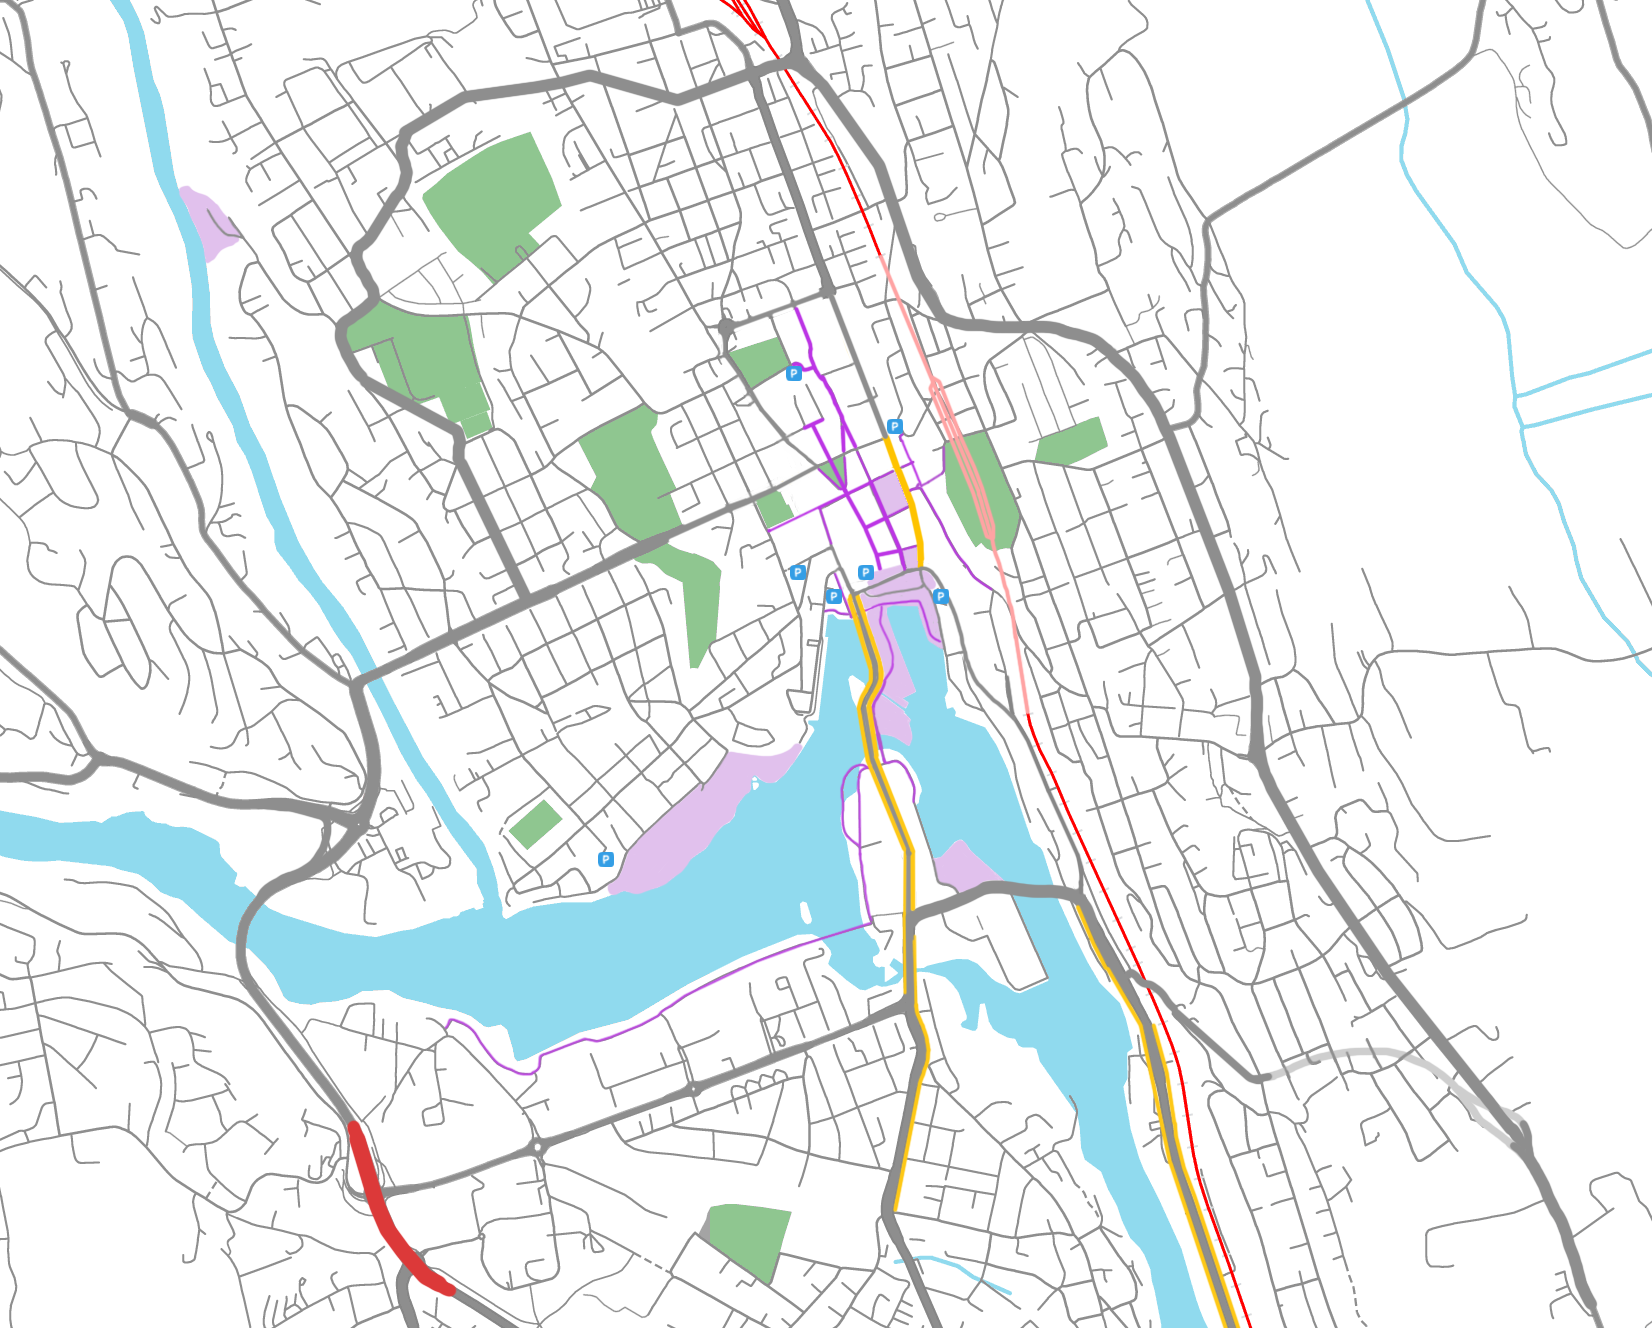
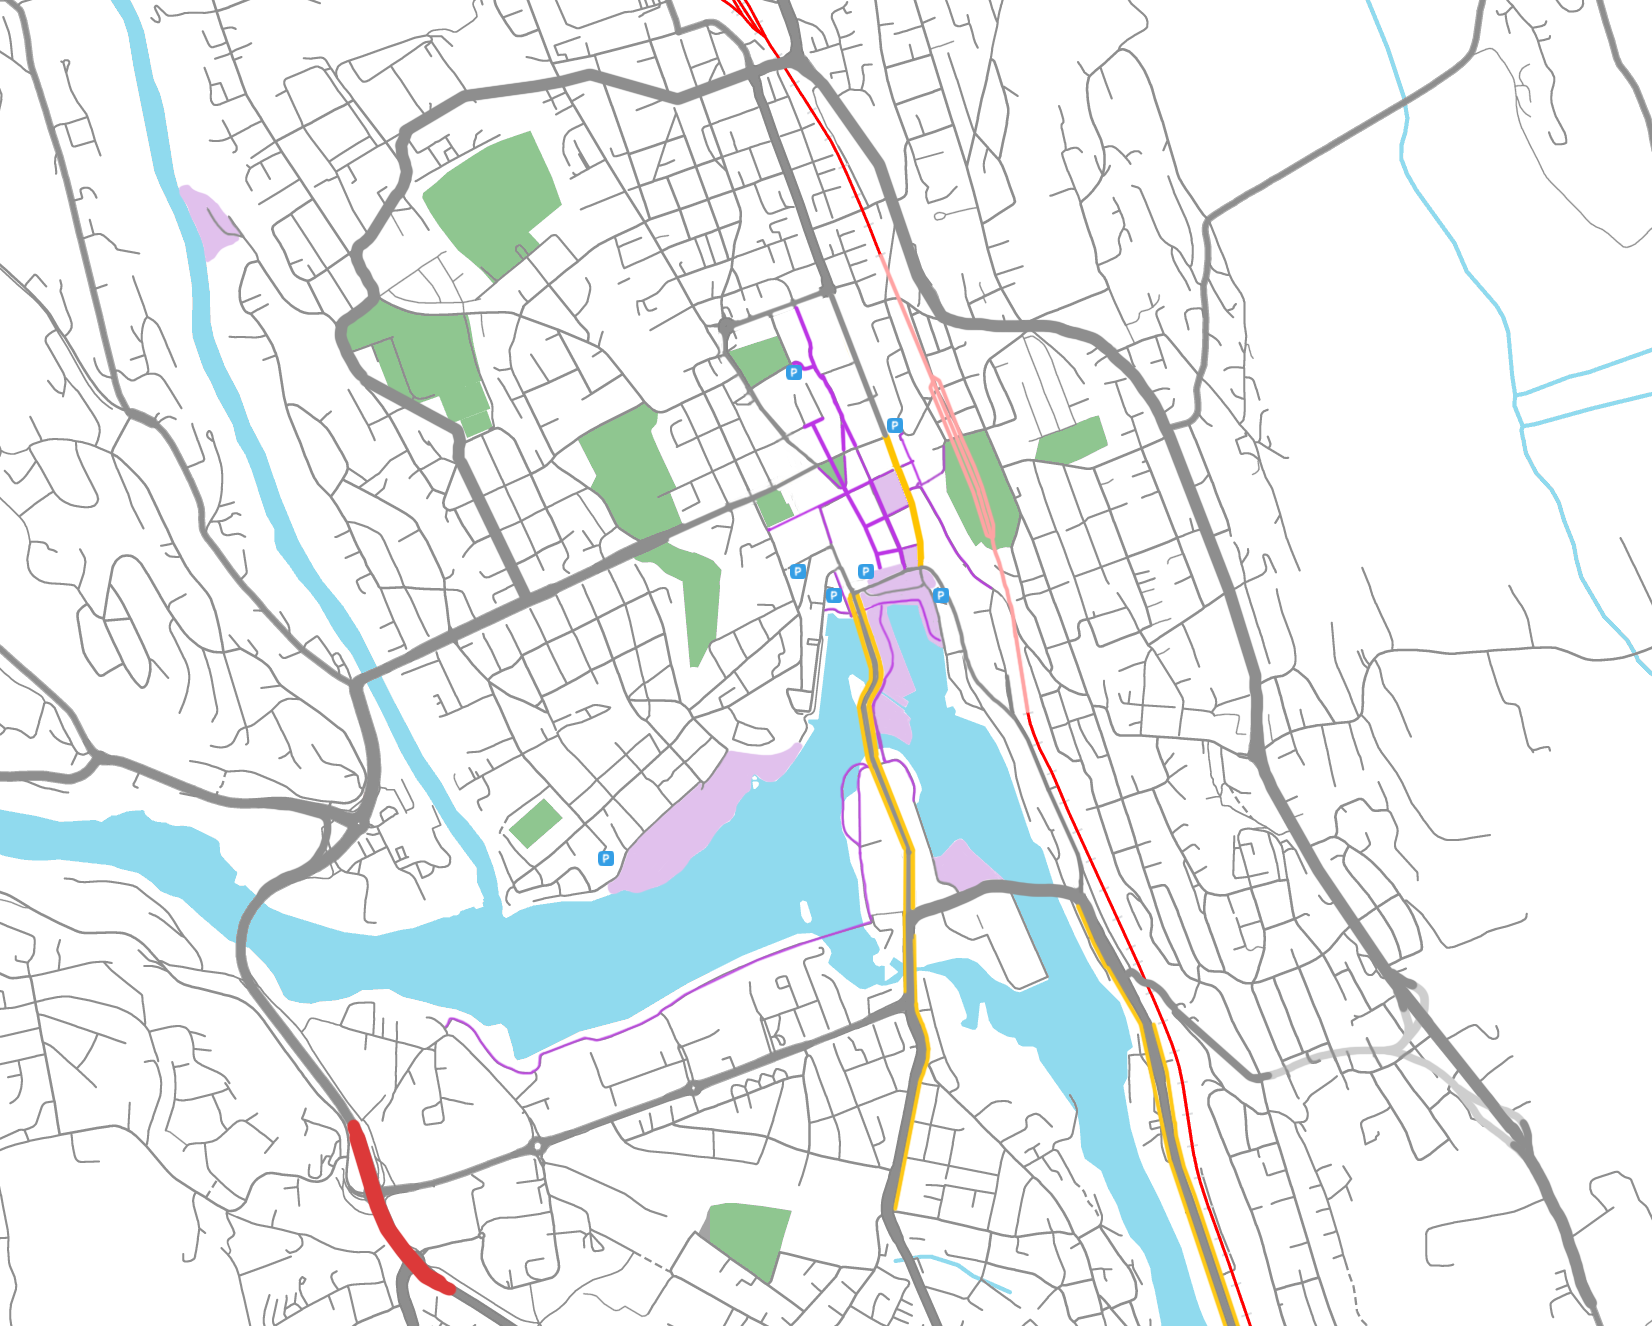
-

diff --git a/index.html b/index.html
@@ -26,9 +26,15 @@
     <main>
         <div class="container">
             <section class="hero" aria-labelledby="welcome-title">
-                <h2 id="welcome-title">Welcome</h2>
-                <p>This is a default index.html. Replace this content with your site. Edit the title, meta, styles and scripts as needed.</p>
-                <p><small>File location: /C:/Users/mrson/Documents/Skien-planen/index.html</small></p>
+                <h2 id="welcome-title">Kjære, stygge, bilsentrerte Skien</h2>
+                <p>Kjære, stygge, bilsentrerte Skien
+
+Hvis det er en ting vi i Skien er glad i, så er det bilen vår. Vi elsker å kunne sette oss i bilen, fyke av gårde, og være på Herkules på fem minutter. Hvorfor skal vi ta kollektiv når det tar tid å gå til busstoppet, vente på bussen som er for sen uansett, og så sitte i samme køen du uansett ville stått i med bil? <br><br>
+
+Likevel skulle vi alle ønske at vi hadde et finere sentrum, med mer gågater med butikker, et julemarked, flott arkitektur, og sprudlende uteliv. Det er som om vi ikke er villige til å ofre bilen for et finere uteområde med gangmuligheter. Og dette skjønner jeg godt. I 1886 brant mye av byen ned. Dette var en flott mulighet for å bygge opp igjen byen rundt mobile fartøy. Det skulle være lett å komme seg rundt med hest og kjerre, og senere også bilen, men når byen vokste, gjorde også behovet for utvidet veinett det. I tillegg gikk ekspansjon av byen på bekostning av arkitektur og byplanlegging. I dag har vi det som er en over gjennomsnittlig stygg by, med ekstremt mye potensiale. Og jeg klarer ikke å stå å se på, mens vi vimser rundt dårlige løsninger på problemene. <br><br>
+
+Derfor har jeg laget denne siden for å vise AKKURAT de endringene JEG ville gjort for byen vår, og har sortert tiltakene inn i <a class="inline-link" href="pages/infrastruktur.html">Infrastruktur</a>, <a class="inline-link" href="pages/kollektivtransport.html">Kollektivtransport</a>, <a class="inline-link" href="pages/moteplasser.html">Møteplasser</a> og <a class="inline-link" href="pages/arkitektur.html">Arkitektur</a>. Her er det mye spennende å ta tak i!</p>
+                <p><small>Dette er kun min mening, og representerer ikke noe demokratisk prosess.</small></p>
             </section>
             <section class="hero">
                 <h2>Interaktivt kart</h2>
@@ -83,7 +89,13 @@
                                 </span>
                                 <span class="label">Toglinje</span>
                             </li>
-                            <li><span class="swatch" style="background:#8e8e8e" aria-hidden="true"></span><span class="label">Vei</span></li>
+                            <li>
+                                <span class="swatch double">
+                                    <span class="part" style="background:#8e8e8e" aria-hidden="true"></span>
+                                    <span class="part" style="background:#cecece" aria-hidden="true"></span>
+                                </span>
+                                <span class="label">Vei</span>
+                            </li>
                         </ul>
                     </aside>
 
@@ -97,7 +109,7 @@
 
     <footer>
         <div style="max-width:900px;margin:0 auto;text-align:center;">
-            <small>&copy; <span id="year"></span> Skien Planen</small>
+            <small>&copy; <span id="year"></span> Sondre Callaerts</small>
         </div>
     </footer>
 

diff --git a/js/beforeAfter.js b/js/beforeAfter.js
@@ -140,17 +140,22 @@
             if (!newZ) return;
             var oldZ = zoom;
             newZ = clamp(newZ, minZoom, maxZoom);
-            // scale pan so current focal stays approximately under same point
-            if (focal && typeof focal.x === 'number') {
-                // focal is in view coordinates e.g. {x, y}
+            // scale pan so the focal point stays approximately under the same point.
+            // If no focal is provided (e.g. slider changes), default to the view center
+            // so zoom/scale appears to be centered rather than anchored to top-left.
+            try {
+                if (!focal || typeof focal.x !== 'number') {
+                    var rect = view.getBoundingClientRect();
+                    focal = { x: Math.round(rect.width / 2), y: Math.round(rect.height / 2) };
+                }
                 // compute focal in content coords and adjust pan to keep focal stable
                 var fx = focal.x + panX;
                 var fy = focal.y + panY;
                 var scale = newZ / oldZ;
                 panX = Math.round(fx * scale - focal.x);
                 panY = Math.round(fy * scale - focal.y);
-            } else {
-                // proportional scaling
+            } catch (err) {
+                // fallback proportional scaling if view metrics are unavailable
                 panX = Math.round(panX * (newZ / oldZ));
                 panY = Math.round(panY * (newZ / oldZ));
             }

diff --git a/styles/styles.css b/styles/styles.css
@@ -15,6 +15,9 @@ header, footer {
     color: #fff;
     padding: 1rem;
 }
+footer {
+    margin-top: 1rem;
+}
 header div {
     max-width:900px;
     margin:0 auto;
@@ -35,8 +38,11 @@ a {
     color: #ffd; 
     color:rgba(255,255,255,.9);
     text-decoration:none;
-    margin-left:1rem;
 }
+
+/* Only add spacing between header nav links; inline links should not have left margin */
+header nav a + a { margin-left: 1rem; }
+header nav a:first-child { margin-left: 0; }
 
 /* Highlight the current page link in the header nav */
 header nav a[aria-current="page"] {
@@ -47,6 +53,10 @@ header nav a[aria-current="page"] {
     font-weight: 600;
     box-shadow: 0 1px 0 rgba(0,0,0,0.04) inset;
 }
+
+/* Inline links in content (highlightable and clickable) */
+.inline-link { color: var(--accent); text-decoration: none; font-weight: 600; border-bottom: 1px solid transparent; }
+.inline-link:hover, .inline-link:focus-visible { background: rgba(var(--accent-rgb),0.06); border-bottom-color: var(--accent); outline: none; }
 .container { 
     display: grid; 
     gap: 1rem; 
